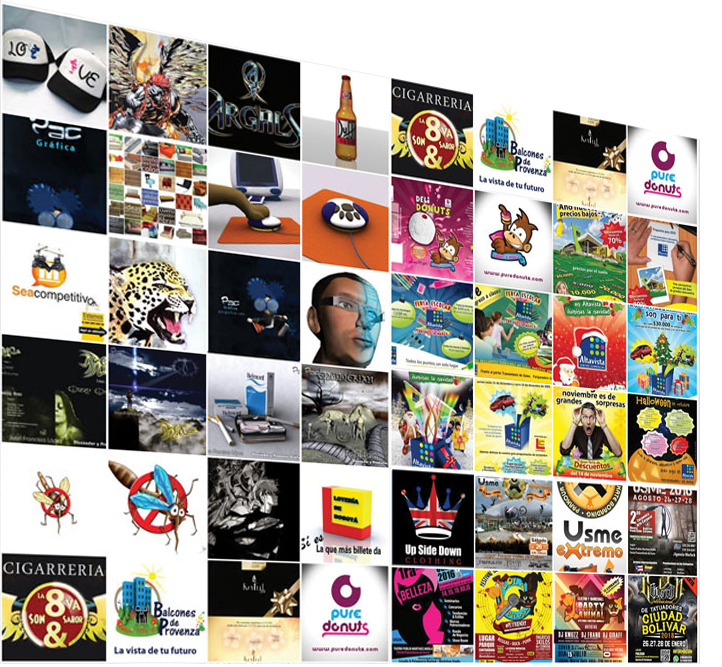
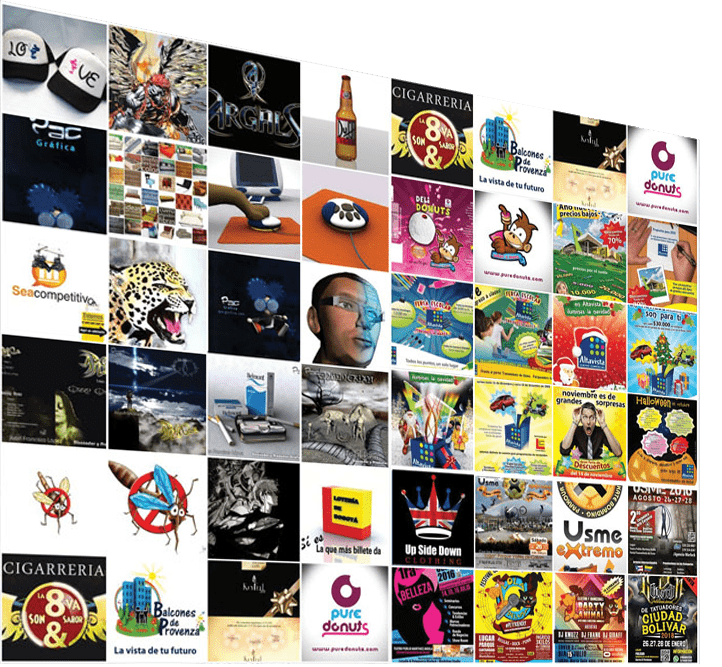
subo imagenes mas livianas

Changed region(s): [[0.7313, 0.9895, 0.7618, 1.0], [0.7008, 0.8996, 0.7313, 0.9295]]

diff --git a/index.html b/index.html
@@ -511,11 +511,12 @@
 
 
     </div>
-    <script type="text/javascript">
+    <!-- codigo intro de logo
+      <script type="text/javascript">
       $(window).on('load', function () {
           $('#myModal').modal('show');
       });
-    </script>
+    </script> -->
     <script src="https://cdn.jsdelivr.net/npm/bootstrap@5.2.0/dist/js/bootstrap.bundle.min.js" integrity="sha384-A3rJD856KowSb7dwlZdYEkO39Gagi7vIsF0jrRAoQmDKKtQBHUuLZ9AsSv4jD4Xa" crossorigin="anonymous"></script>
     <script>
       const popoverTriggerList = document.querySelectorAll('[data-bs-toggle="popover"]')
